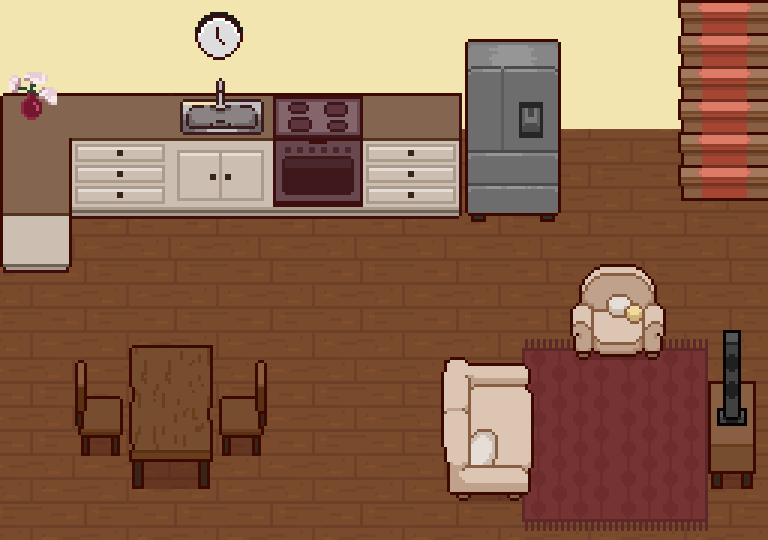
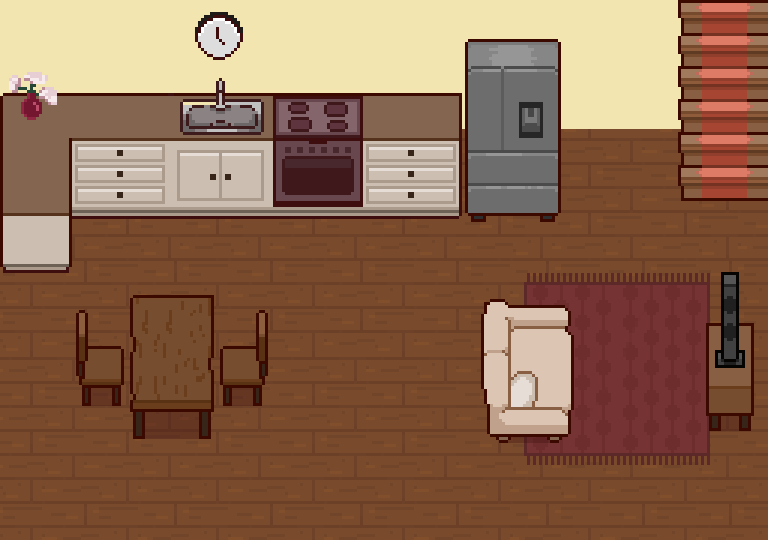
added a hotbar and edited the fridge menu to make space for it

Changed region(s): [[0.5625, 0.4741, 1.0, 1.0], [0.0938, 0.5333, 0.375, 0.9185]]

diff --git a/src/main.js b/src/main.js
@@ -42,19 +42,23 @@ class Kitchen extends Phaser.Scene{
     this.load.image("flour", "/assets/ingredients/flour.png");
 
     // Preload UI
-    this.load.image("cancel", "/assets/ui/cancel.png")
+    this.load.image("cancel", "/assets/ui/cancel.png");
+    this.load.image("hotbar", "/assets/ui/hotbar.png");
+    this.load.image("select", "/assets/ui/select.png");
   }
 
   create(){
 
-    //this.IntialiseIngredients();
     this.CreateKitchen();
+    this.CreateUI();
 
-    // Ensuring my objects can be globally accessed
+    // Ensuring objects can be globally accessed
     this.registry.set('fridge', this.fridge);
     this.registry.set('stove', this.stove);
     this.registry.set('oven', this.oven);
     this.registry.set('sink', this.sink);
+
+
   }
 
   update(){
@@ -77,6 +81,11 @@ class Kitchen extends Phaser.Scene{
     this.stove = new Stove(this);
     this.oven = new Oven(this);
     this.sink = new Sink(this);
+  }
+
+  CreateUI(){
+    // Adding the hotbar to the screen
+    this.add.image(15, sizes.height - 82, "hotbar").setOrigin(0, 0);
   }
 }
 
@@ -102,7 +111,7 @@ class FridgeMenu extends Phaser.Scene{
     const fridge = this.registry.get('fridge');
     
     // Add background and cancel button
-    this.add.rectangle(30, 30, (this.game.config.width) - 60, (this.game.config.height) - 60, 0xfadde1).setOrigin(0);
+    this.add.rectangle(30, 30, (this.game.config.width) - 60, (this.game.config.height) - 120, 0xfadde1).setOrigin(0);
     this.add.image(this.game.config.width - 54, 12, "cancel").setOrigin(0);
 
     // Makes the cancel button clickable
@@ -122,15 +131,21 @@ class FridgeMenu extends Phaser.Scene{
 
     // Create a scrollable container and populate it with ingredients
     console.log(this.ingredients);
-    let yAxis = 40;
+    let yAxis = 50;
+    let xAxis = 10;
     let ingredientContainer = this.add.container(40, 50);
-    this.ingredients.forEach((item) => {
-      let icon = this.add.image(10, yAxis - 15, item[1]).setOrigin(0, 0).setScale(1.5);
-      let text = this.add.text(70, yAxis, item[0], { fontSize: '16px', color: '#000', fontFamily: 'daydream' });
+    this.ingredients.forEach((item, i) => {
+      let icon = this.add.image(xAxis, yAxis - 15, item[1]).setOrigin(0, 0).setScale(1.5);
+      let text = this.add.text(xAxis + 60, yAxis, item[0], { fontSize: '16px', color: '#000', fontFamily: 'daydream' });
       ingredientContainer.add(text);
       ingredientContainer.add(icon);
 
       yAxis += 60;
+
+      if(i % 5 == 0 && i != 0){
+        xAxis += 200;
+        yAxis = 50;
+      }
     });
   }
 
